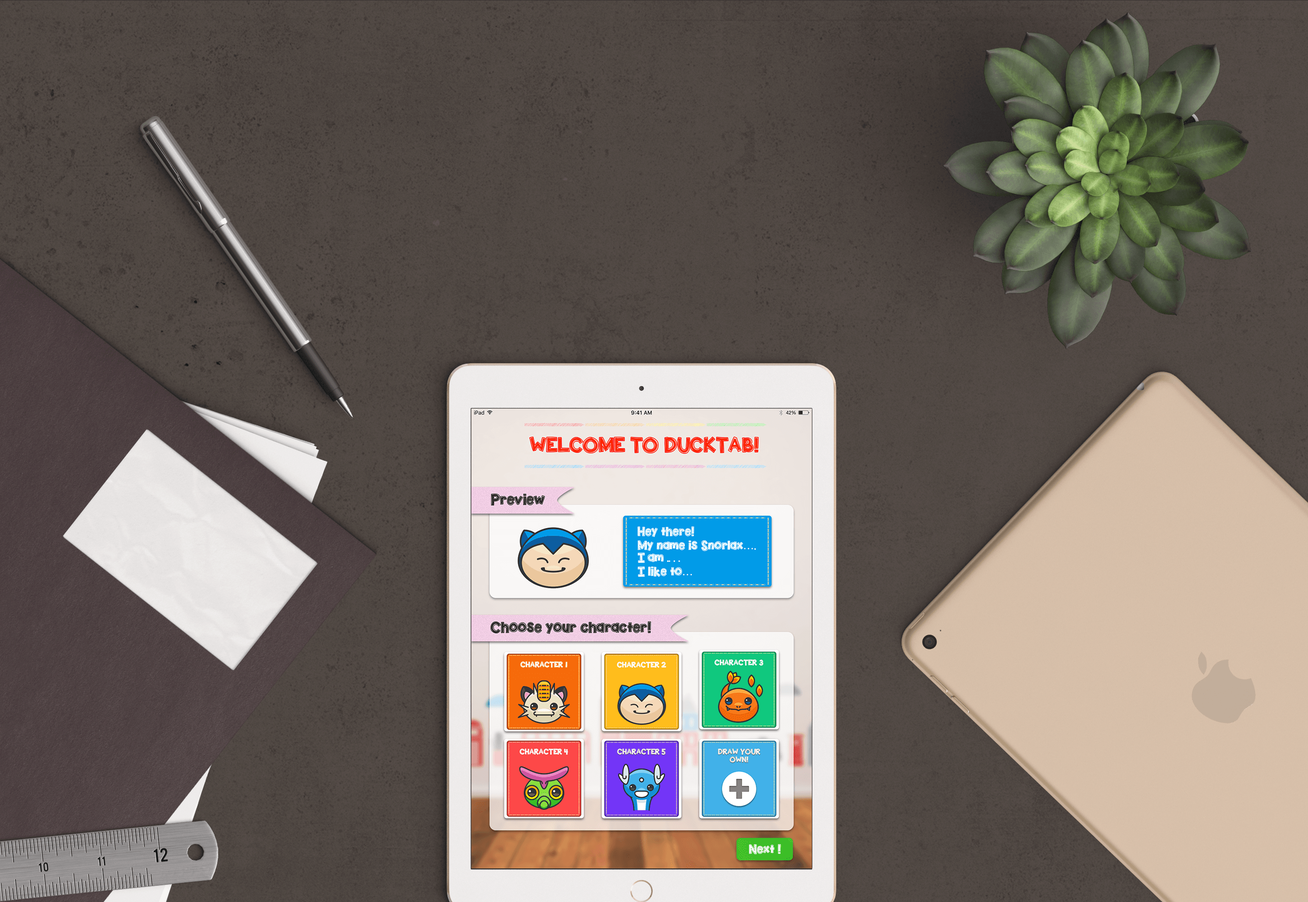
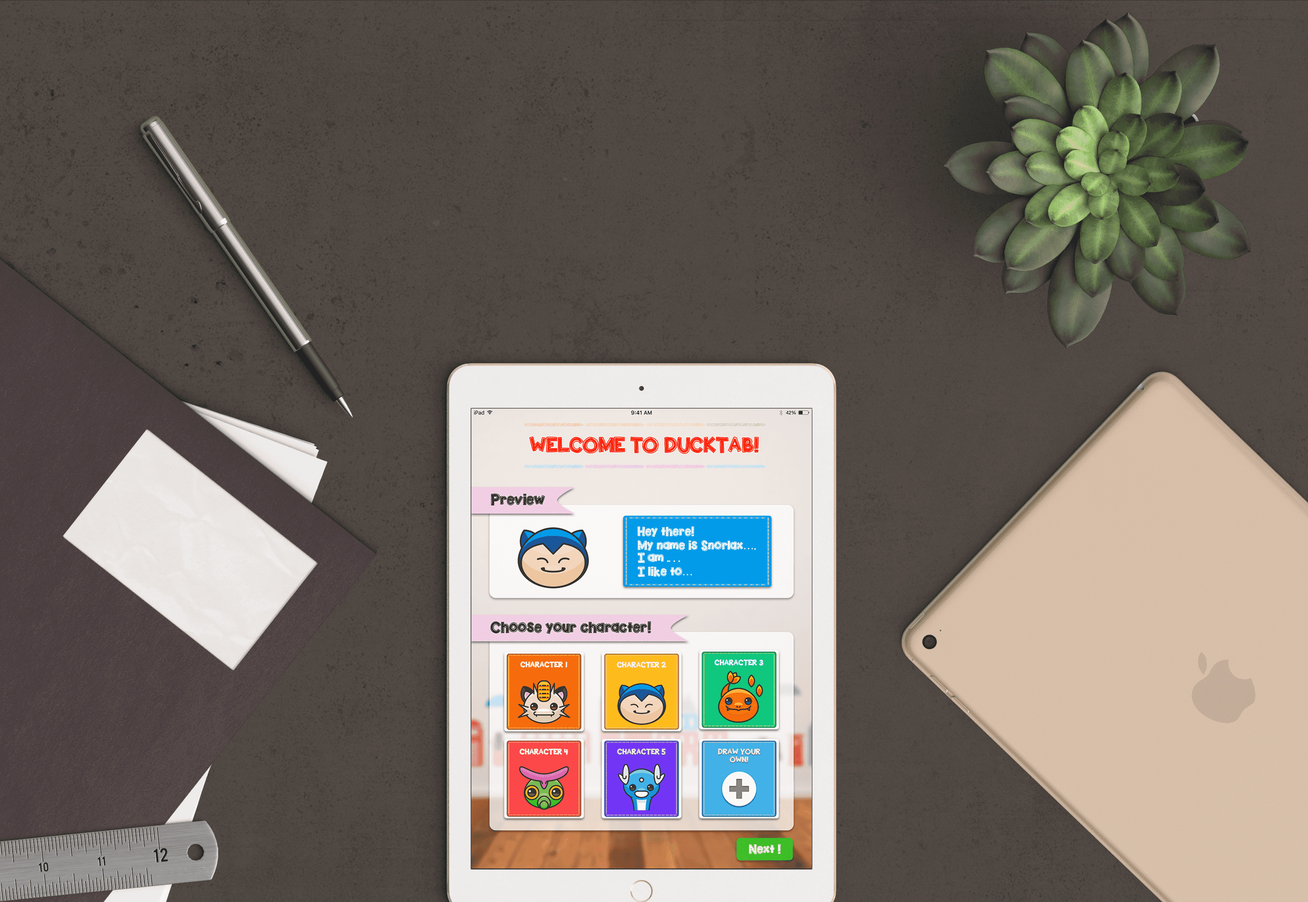
reduced image sizes for ducktab

diff --git a/projects/DuckTab.html b/projects/DuckTab.html
@@ -418,7 +418,7 @@
                                           <div class="t-entry-visual-tc">
                                             <div class="t-entry-visual-cont">
                                               <div class="dummy" style="padding-top: 66.67%;"></div>
-                                              <a tabindex="-1" href="../images/ducktab/visit2.JPG" class="pushed hoverZoomLink" data-active="1" data-lbox="ilightbox_gallery-17359" data-options="width:2880,height:1920,thumbnail: '../images/ducktab/visit2.JPG'">
+                                              <a tabindex="-1" href="../images/ducktab/visit2-min.JPG" class="pushed hoverZoomLink" data-active="1" data-lbox="ilightbox_gallery-17359" data-options="width:2880,height:1920,thumbnail: '../images/ducktab/visit2-min.JPG'">
                                                 <div class="t-entry-visual-overlay">
                                                   <div class="t-entry-visual-overlay-in style-dark-bg" style="opacity: 0.5;"></div>
                                                 </div>
@@ -431,7 +431,7 @@
                                                     </div>
                                                   </div>
                                                 </div>
-                                                <img src="../images/ducktab/visit2.JPG" width="1032" height="688" alt="" class="hoverZoomLink">
+                                                <img src="../images/ducktab/visit2-min.JPG" width="1032" height="688" alt="" class="hoverZoomLink">
                                               </a>
                                             </div>
                                           </div>
@@ -471,7 +471,7 @@
                                           <div class="t-entry-visual-tc">
                                             <div class="t-entry-visual-cont">
                                               <div class="dummy" style="padding-top: 66.67%;"></div>
-                                              <a tabindex="-1" href="../images/ducktab/visit3.JPG" class="pushed hoverZoomLink" data-active="1" data-lbox="ilightbox_gallery-17359" data-options="width:2880,height:1908,thumbnail: '../images/ducktab/visit3.JPG'">
+                                              <a tabindex="-1" href="../images/ducktab/visit3-min.JPG" class="pushed hoverZoomLink" data-active="1" data-lbox="ilightbox_gallery-17359" data-options="width:2880,height:1908,thumbnail: '../images/ducktab/visit3-min.JPG'">
                                                 <div class="t-entry-visual-overlay">
                                                   <div class="t-entry-visual-overlay-in style-dark-bg" style="opacity: 0.5;"></div>
                                                 </div>
@@ -484,7 +484,7 @@
                                                     </div>
                                                   </div>
                                                 </div>
-                                                <img src="../images/ducktab/visit3.JPG" width="1032" height="688" alt="" class="hoverZoomLink">
+                                                <img src="../images/ducktab/visit3-min.JPG" width="1032" height="688" alt="" class="hoverZoomLink">
                                               </a>
                                             </div>
                                           </div>
@@ -498,7 +498,7 @@
                                           <div class="t-entry-visual-tc">
                                             <div class="t-entry-visual-cont">
                                               <div class="dummy" style="padding-top: 66.67%;"></div>
-                                              <a tabindex="-1" href="../images/ducktab/visit5.JPG" class="pushed hoverZoomLink" data-active="1" data-lbox="ilightbox_gallery-17359" data-options="width:2880,height:1908,thumbnail: '../images/ducktab/visit5.JPG'">
+                                              <a tabindex="-1" href="../images/ducktab/visit5-min.JPG" class="pushed hoverZoomLink" data-active="1" data-lbox="ilightbox_gallery-17359" data-options="width:2880,height:1908,thumbnail: '../images/ducktab/visit5-min.JPG'">
                                                 <div class="t-entry-visual-overlay">
                                                   <div class="t-entry-visual-overlay-in style-dark-bg" style="opacity: 0.5;"></div>
                                                 </div>
@@ -511,7 +511,7 @@
                                                     </div>
                                                   </div>
                                                 </div>
-                                                <img src="../images/ducktab/visit5.JPG" width="1032" height="688" alt="" class="hoverZoomLink">
+                                                <img src="../images/ducktab/visit5-min.JPG" width="1032" height="688" alt="" class="hoverZoomLink">
                                               </a>
                                             </div>
                                           </div>
@@ -525,7 +525,7 @@
                                           <div class="t-entry-visual-tc">
                                             <div class="t-entry-visual-cont">
                                               <div class="dummy" style="padding-top: 66.67%;"></div>
-                                              <a tabindex="-1" href="../images/ducktab/visit7.jpg" class="pushed hoverZoomLink" data-active="1" data-lbox="ilightbox_gallery-17359" data-options="width:2880,height:1908,thumbnail: '../images/ducktab/visit7.jpg'">
+                                              <a tabindex="-1" href="../images/ducktab/visit7-min.jpg" class="pushed hoverZoomLink" data-active="1" data-lbox="ilightbox_gallery-17359" data-options="width:2880,height:1908,thumbnail: '../images/ducktab/visit7-min.jpg'">
                                                 <div class="t-entry-visual-overlay">
                                                   <div class="t-entry-visual-overlay-in style-dark-bg" style="opacity: 0.5;"></div>
                                                 </div>
@@ -538,7 +538,7 @@
                                                     </div>
                                                   </div>
                                                 </div>
-                                                <img src="../images/ducktab/visit7.jpg" width="1032" height="688" alt="" class="hoverZoomLink">
+                                                <img src="../images/ducktab/visit7-min.jpg" width="1032" height="688" alt="" class="hoverZoomLink">
                                               </a>
                                             </div>
                                           </div>
@@ -552,7 +552,7 @@
                                           <div class="t-entry-visual-tc">
                                             <div class="t-entry-visual-cont">
                                               <div class="dummy" style="padding-top: 66.67%;"></div>
-                                              <a tabindex="-1" href="../images/ducktab/visit8.jpg" class="pushed hoverZoomLink" data-active="1" data-lbox="ilightbox_gallery-17359" data-options="width:2880,height:1908,thumbnail: '../images/ducktab/visit8.jpg'">
+                                              <a tabindex="-1" href="../images/ducktab/visit8-min.jpg" class="pushed hoverZoomLink" data-active="1" data-lbox="ilightbox_gallery-17359" data-options="width:2880,height:1908,thumbnail: '../images/ducktab/visit8-min.jpg'">
                                                 <div class="t-entry-visual-overlay">
                                                   <div class="t-entry-visual-overlay-in style-dark-bg" style="opacity: 0.5;"></div>
                                                 </div>
@@ -565,7 +565,7 @@
                                                     </div>
                                                   </div>
                                                 </div>
-                                                <img src="../images/ducktab/visit8.jpg" width="1032" height="688" alt="" class="hoverZoomLink">
+                                                <img src="../images/ducktab/visit8-min.jpg" width="1032" height="688" alt="" class="hoverZoomLink">
                                               </a>
                                             </div>
                                           </div>
